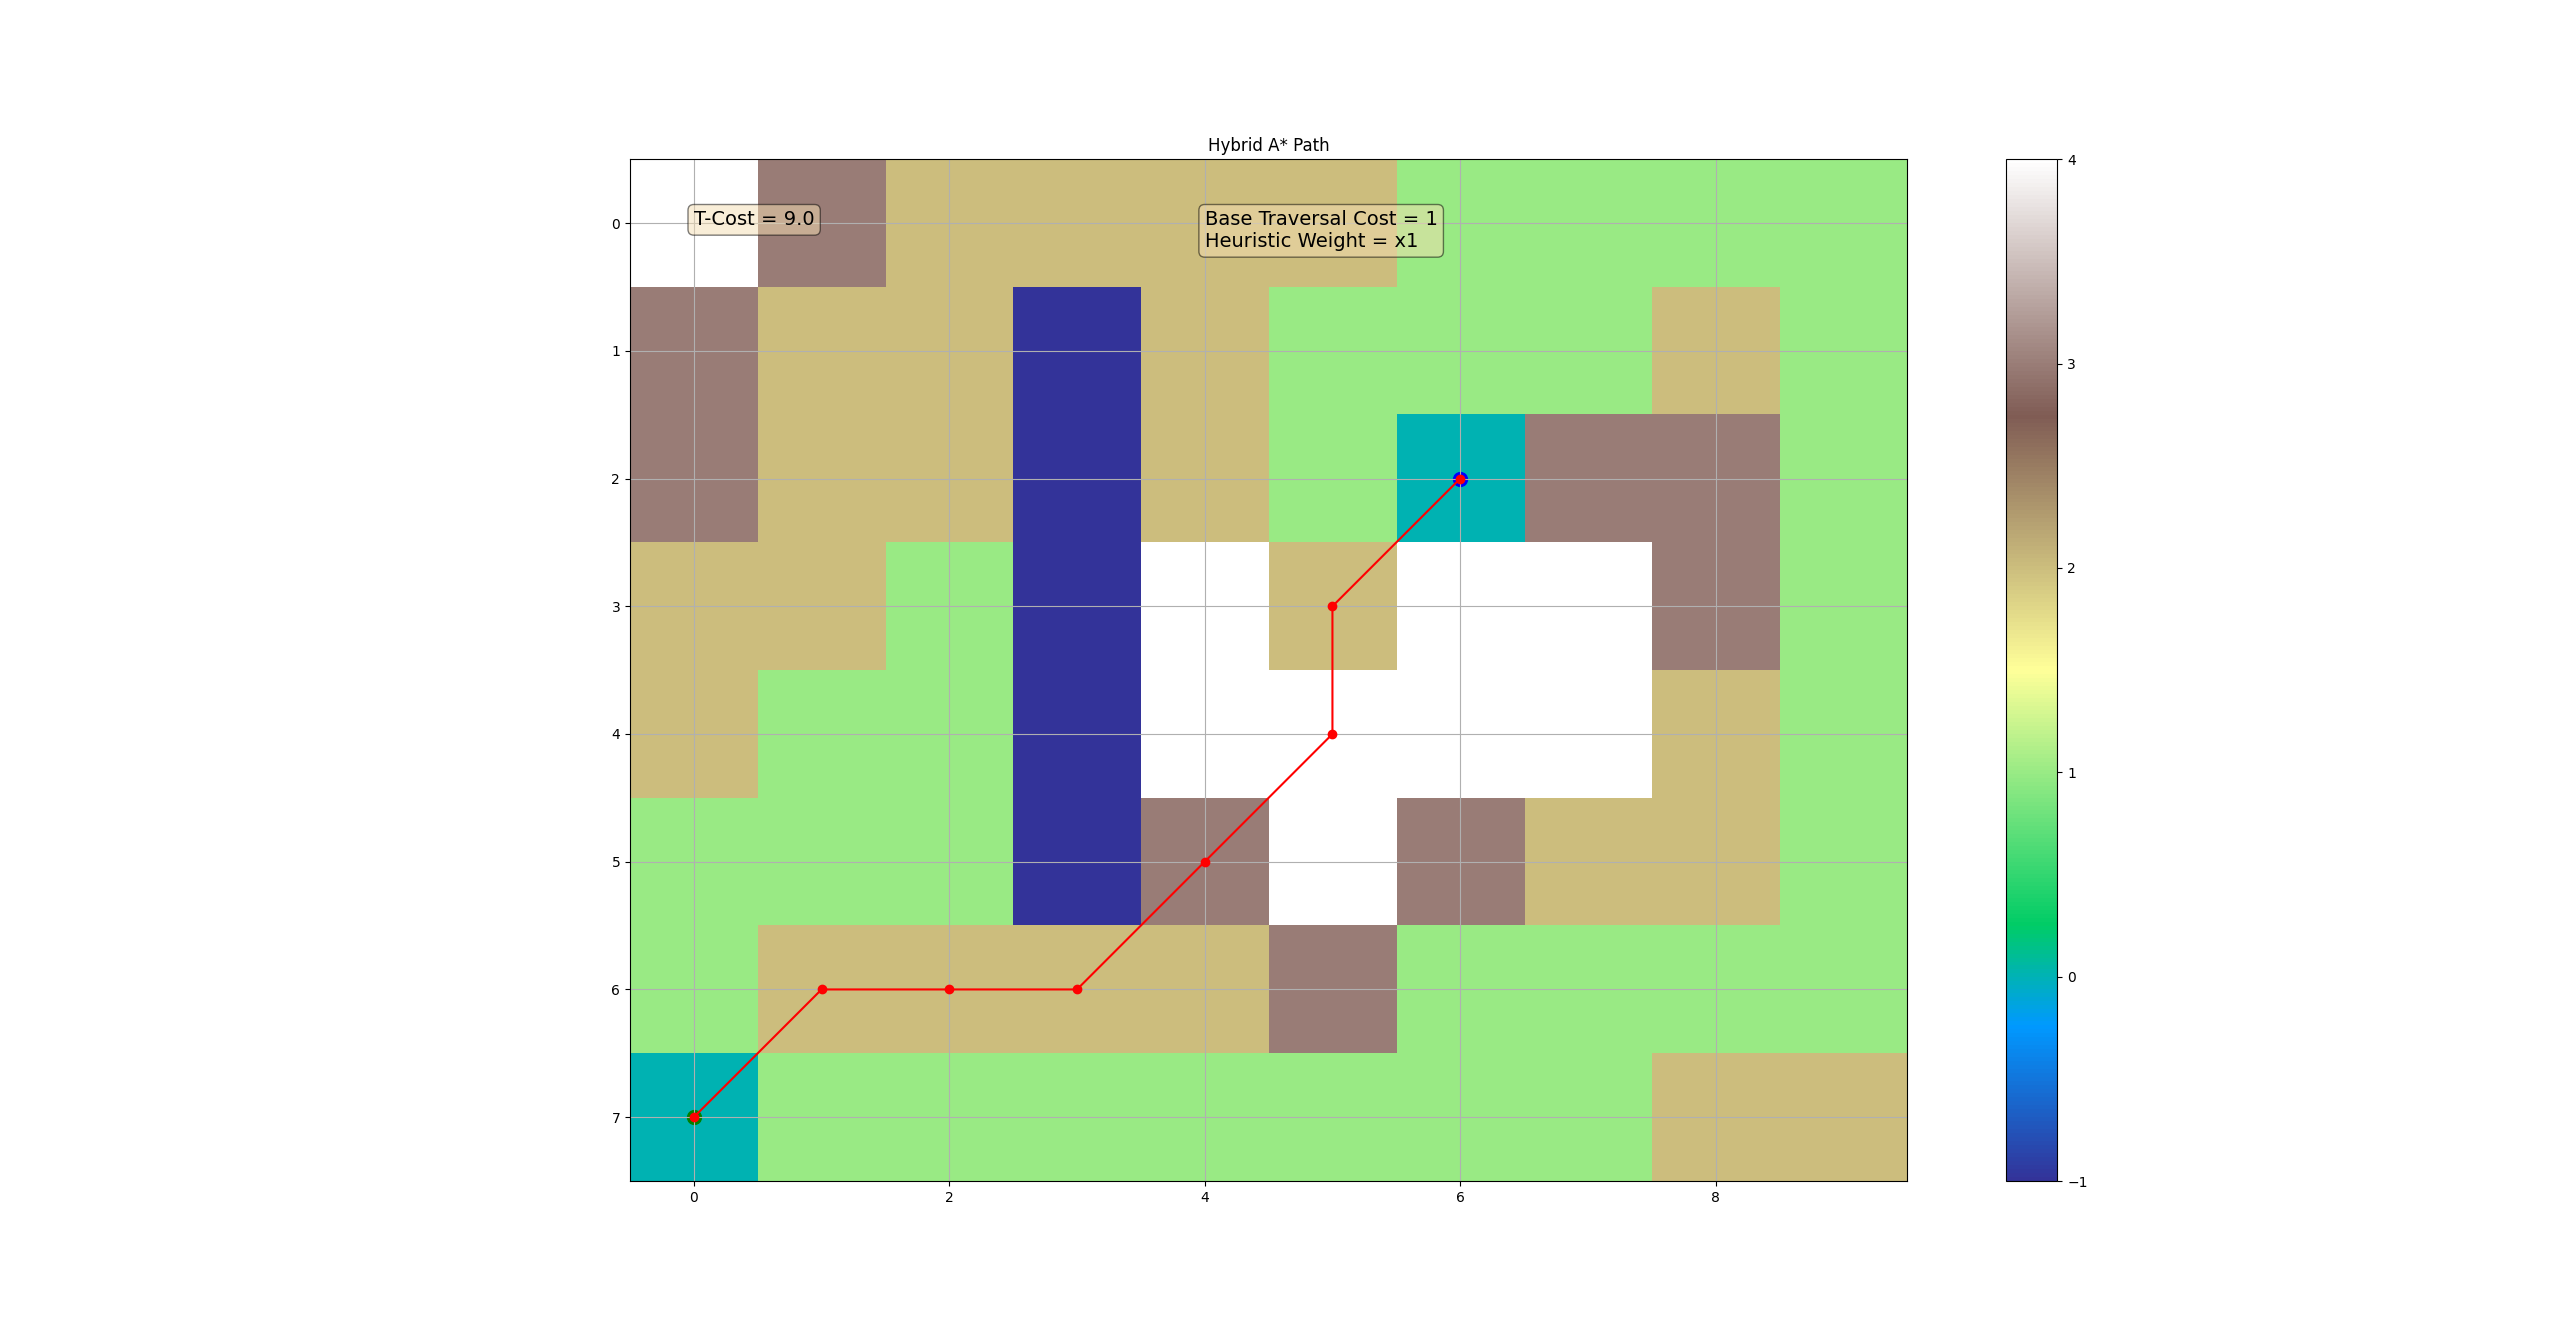
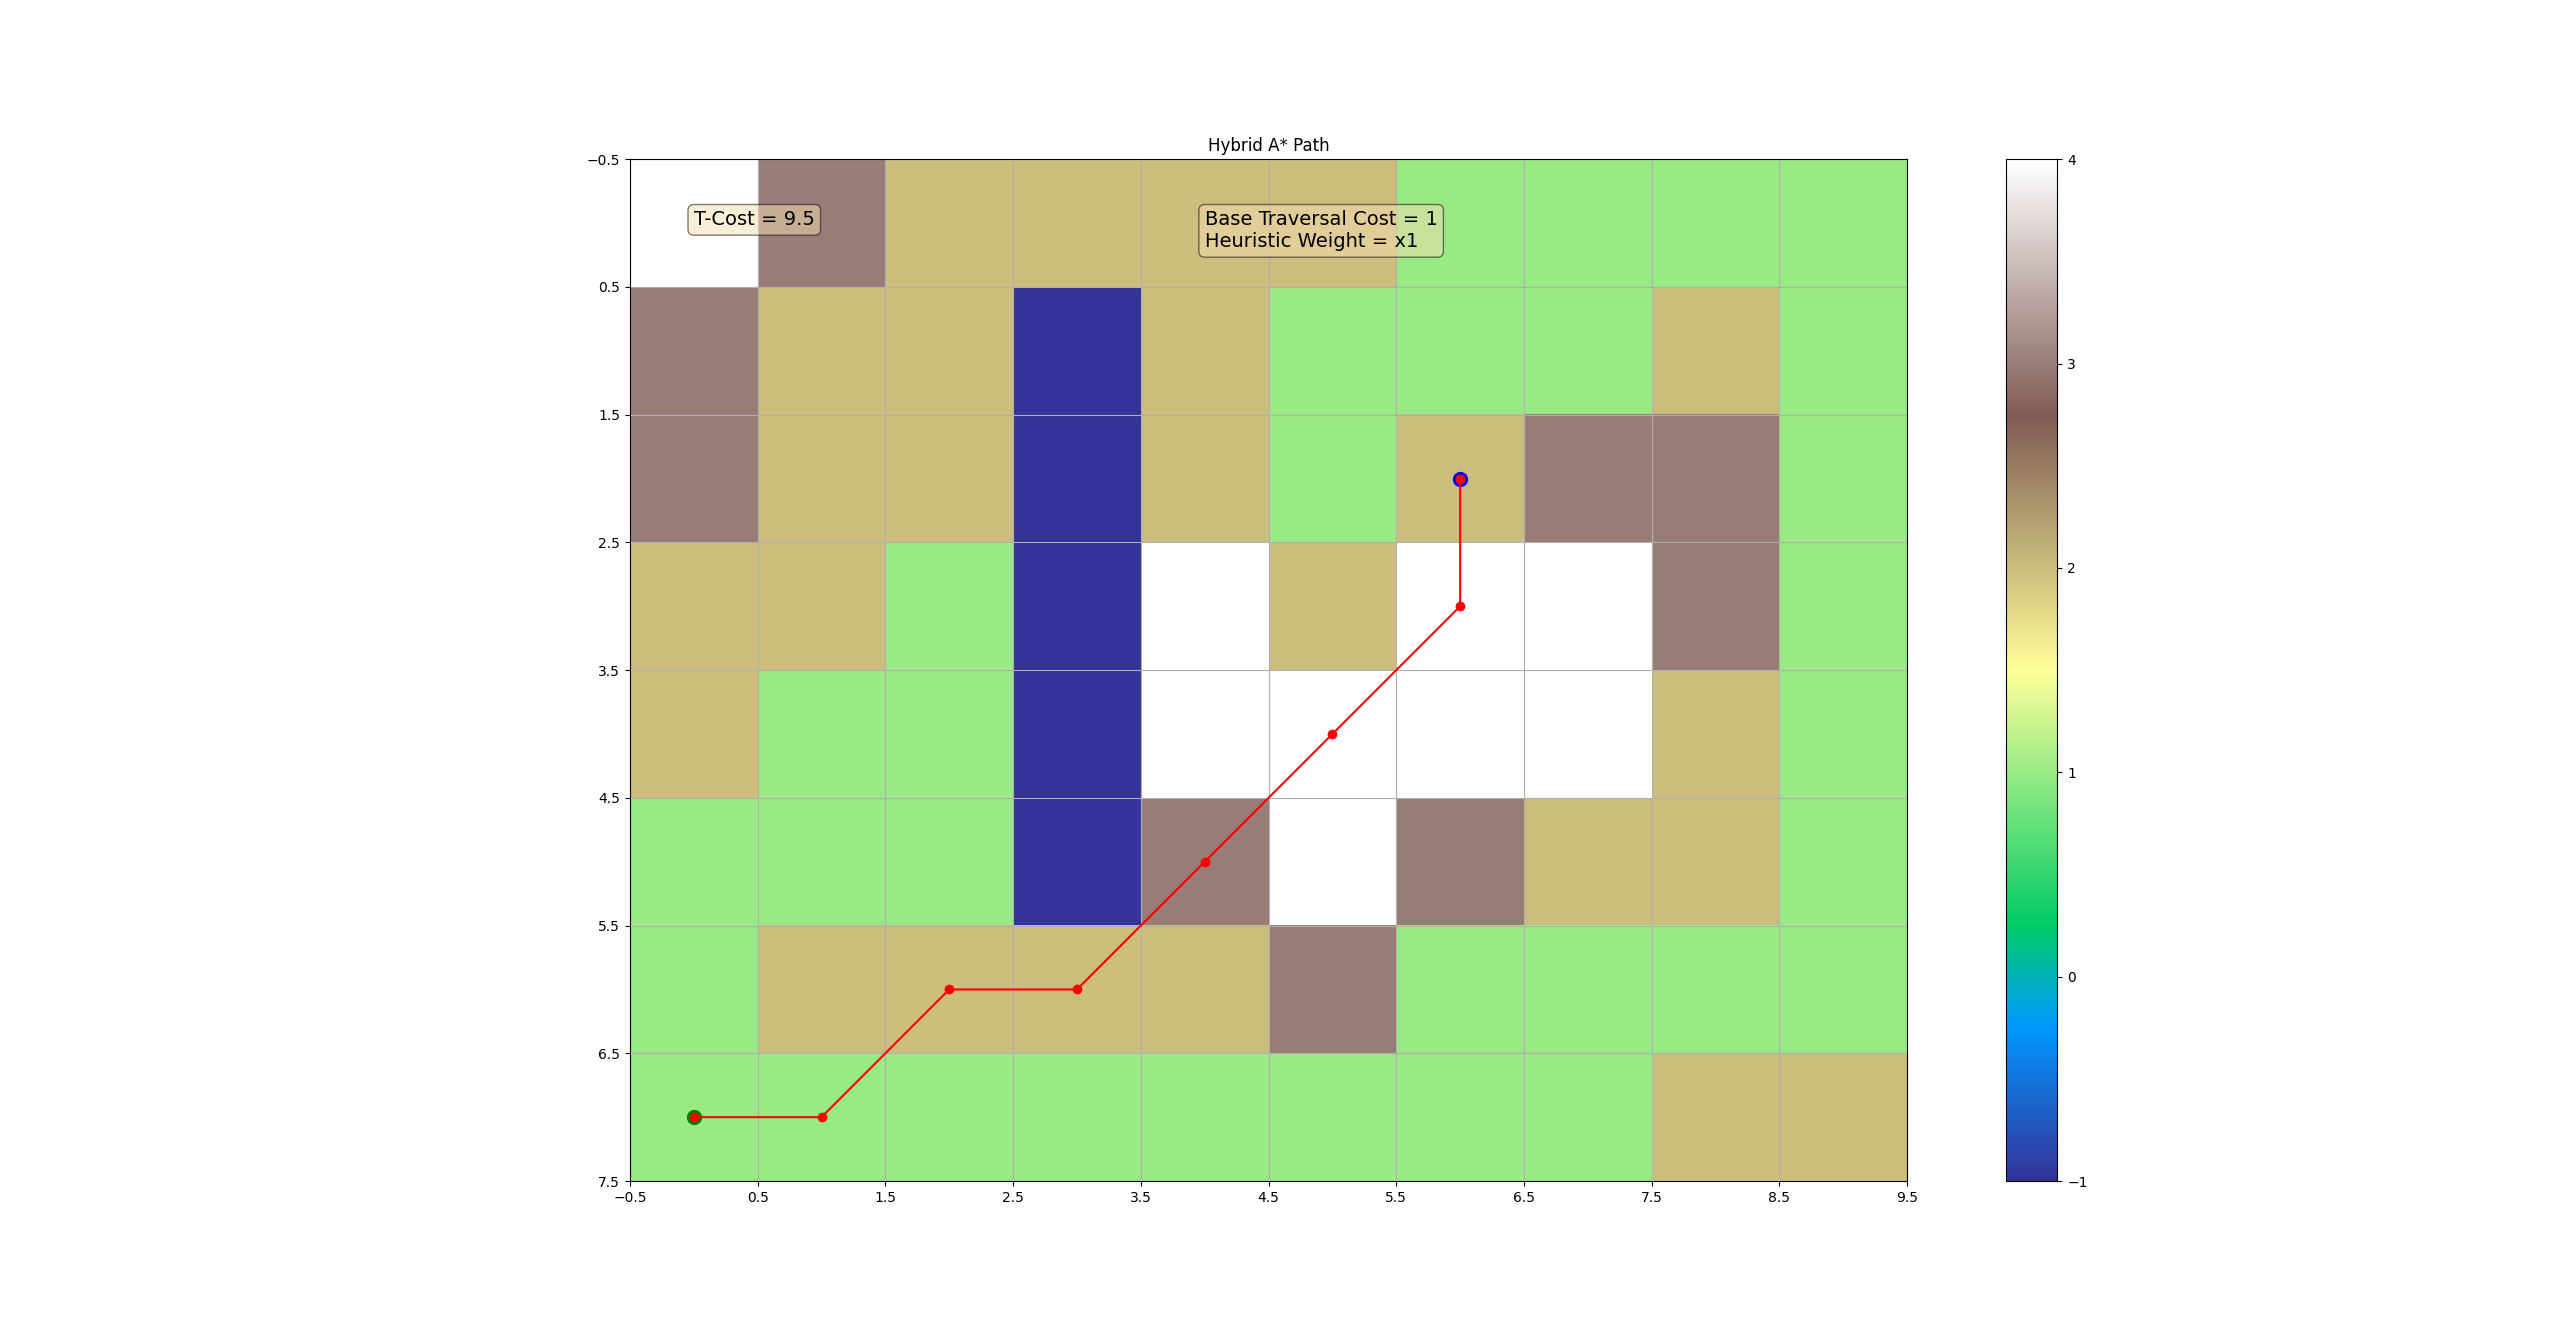
adding some problem 6 graphs

Changed region(s): [[0.2188, 0.7724, 0.3125, 0.896], [0.5312, 0.309, 0.5938, 0.4326], [0.3438, 0.7415, 0.375, 0.7724]]

diff --git a/Problem7/partB.py b/Problem7/partB.py
@@ -4,15 +4,17 @@ import numpy as np
 import matplotlib.pyplot as plt
 import time
 
-BASE_TRAVERSAL_COST = 20
+BASE_TRAVERSAL_COST = 0.5
+UPHILL_COST = 5
+DOWNHILL_GAIN = 1
 HEURISTIC_WEIGHT = 1
 TERRAIN_WEIGHT = 1
 
 START_COORDS = (0, 7)
 END_COORDS = (6, 2)
 
-STARTING_ALT = 0
-ENDING_ALT = 0
+STARTING_ALT = 1
+ENDING_ALT = 2
 
 N = (0, 1)
 NE = (1, 1)
@@ -28,7 +30,7 @@ show_animation = False
 sqrt_2 = math.sqrt(2)
 directions_cost_map = {N: 1, NE: sqrt_2, E: 1, SE: sqrt_2, S: 1, SW: sqrt_2, W: 1, NW: sqrt_2}
 
-terrain_map = [
+TERRAIN_MAP = [
     [4, 3, 2, 2, 2, 2, 1, 1, 1, 1],
     [3, 2, 2, -1, 2, 1, 1, 1, 2, 1],
     [3, 2, 2, -1, 2, 1, ENDING_ALT, 3, 3, 1],
@@ -38,6 +40,17 @@ terrain_map = [
     [1, 2, 2, 2, 2, 3, 1, 1, 1, 1],
     [STARTING_ALT, 1, 1, 1, 1, 1, 1, 1, 2, 2],
 ]
+
+# TERRAIN_MAP = [
+#     [1, 1, 2, 2, 2, 2, 1, 1, 1, 2],
+#     [1, 1, -1, -1, -1, -1, 1, 1, 2, 2],
+#     [1, 2, 3, 4, 2, -1, ENDING_ALT, 3, 3, 2],
+#     [1, 2, 4, 2, 2, -1, 4, 4, 3, 2],
+#     [1, 2, 3, 2, 3, -1, 3, 4, 3, 2],
+#     [1, 2, 2, 2, 3, -1, 2, 3, 2, 2],
+#     [1, 1, 1, 2, 3, 3, 2, 2, 2, 2],
+#     [STARTING_ALT, 1, 2, 1, 1, 2, 2, 2, 2, 2],
+# ]
 class Node:
     def __init__(self, x, y, parent):
         self.x = x
@@ -105,7 +118,7 @@ class AStarPlanner:
                     continue
 
                 # Check that this location isn't in lake
-                if terrain_map[child_y][child_x] == -1:
+                if TERRAIN_MAP[child_y][child_x] == -1:
                     print("ending because the element was found to be in the lake")
                     continue
 
@@ -116,15 +129,15 @@ class AStarPlanner:
 
                 child_node = Node(child_x, child_y, current_node)
                 child_node.parent = current_node
+                child_node.cost_t = current_node.cost_t + self.calc_t_cost(current_node, child_node)
                 child_node.cost_g = current_node.cost_g + cost
                 child_node.cost_h = self.calc_h_cost(child_node)
-                child_node.cost_t = self.calc_t_cost(current_node, child_node)
-                child_node.cost_f = child_node.cost_g + (child_node.cost_t * TERRAIN_WEIGHT) + child_node.cost_h
+                child_node.cost_f = (child_node.cost_t * TERRAIN_WEIGHT) + child_node.cost_h
                 # child_node.cost_f = child_node.cost_t + child_node.cost_h
-                # child_node.cost_f = child_node.cost_t 
+                # child_node.cost_f = child_node.cost_t + child_node.cost_g
 
                 for n in open_list:
-                    if child_node == n and child_node.cost_f > n.cost_f:
+                    if child_node == n and child_node.cost_g > n.cost_g:
                         continue
                 
                 heapq.heappush(open_list, child_node)
@@ -133,21 +146,24 @@ class AStarPlanner:
     @staticmethod
     def calc_t_cost(current, child):
         #Uphill
-        if terrain_map[current.y][current.x] < terrain_map[child.y][child.x]:
-            return BASE_TRAVERSAL_COST + 1
-        elif terrain_map[current.y][current.x] > terrain_map[child.y][child.x]:
-            return BASE_TRAVERSAL_COST - 0.5
+        if TERRAIN_MAP[current.y][current.x] < TERRAIN_MAP[child.y][child.x]:
+            return BASE_TRAVERSAL_COST + UPHILL_COST
+        elif TERRAIN_MAP[current.y][current.x] > TERRAIN_MAP[child.y][child.x]:
+            return BASE_TRAVERSAL_COST - DOWNHILL_GAIN
         else:
             return BASE_TRAVERSAL_COST
         
     def calc_h_cost(self, node):
         return HEURISTIC_WEIGHT * math.sqrt((node.x - self.end_node.x)**2 + (node.y - self.end_node.y)**2)
     
+    # def get_path_t_cost(self):
+    #     t_cost = 0
+    #     for node in self.path:
+    #         t_cost += node.cost_t
+    #     return t_cost
+
     def get_path_t_cost(self):
-        t_cost = 0
-        for node in self.path:
-            t_cost += node.cost_t
-        return t_cost
+        return self.path[-1].cost_t
         
 
     
@@ -156,9 +172,9 @@ if __name__ == "__main__":
     start_node = Node(START_COORDS[0], START_COORDS[1], None)
     end_node = Node(END_COORDS[0], END_COORDS[1], None)
 
-    planner = AStarPlanner(start_node=start_node, end_node=end_node, terrain_map=terrain_map)
+    planner = AStarPlanner(start_node=start_node, end_node=end_node, terrain_map=TERRAIN_MAP)
     fig, ax = plt.subplots()
-    plt.imshow(np.array(terrain_map), cmap='terrain')
+    plt.imshow(np.array(TERRAIN_MAP), cmap='terrain')
     plt.colorbar()
 
     ax.grid(True)
@@ -182,6 +198,10 @@ if __name__ == "__main__":
         verticalalignment='top', bbox=dict(boxstyle='round', facecolor='wheat', alpha=0.5))
     ax.text(0.45, 0.95, f"Base Traversal Cost = {BASE_TRAVERSAL_COST}\nHeuristic Weight = x{HEURISTIC_WEIGHT}", transform=ax.transAxes, fontsize=14,
         verticalalignment='top', bbox=dict(boxstyle='round', facecolor='wheat', alpha=0.5))
+    ticks_x = np.arange(-0.5, len(TERRAIN_MAP[0]), 1)
+    ticks_y = np.arange(-0.5, len(TERRAIN_MAP), 1)
+    ax.set_xticks(ticks_x)
+    ax.set_yticks(ticks_y)
     plt.show()
 
     for p in path:

diff --git a/Problem7/partB_astar.py b/Problem7/partB_astar.py
@@ -5,15 +5,17 @@ import matplotlib.pyplot as plt
 import time
 from queue import PriorityQueue
 
-BASE_TRAVERSAL_COST = 2
+BASE_TRAVERSAL_COST = 1
+UPHILL_COST = 3
+DOWNHILL_GAIN = 1
 HEURISTIC_WEIGHT = 1
-TERRAIN_WEIGHT = 2
+TERRAIN_WEIGHT = 1
 
 START_COORDS = (0, 7)
 END_COORDS = (6, 2)
 
-STARTING_ALT = 0
-ENDING_ALT = 0
+STARTING_ALT = 1
+ENDING_ALT = 2
 
 N = (0, 1)
 NE = (1, 1)
@@ -41,6 +43,17 @@ TERRAIN_MAP = [
     [STARTING_ALT, 1, 1, 1, 1, 1, 1, 1, 2, 2],
 ]
 
+# TERRAIN_MAP = [
+#     [2, 2, 2, 2, 2, 2, 1, 1, 1, 2],
+#     [1, 2, 3, 3, 2, -1, 1, 1, 2, 2],
+#     [1, 2, 3, 2, 1, -1, ENDING_ALT, 3, 3, 2],
+#     [1, 2, 4, 2, 1, -1, 4, 4, 3, 1],
+#     [1, 2, 3, 2, 1, -1, 4, 4, 2, 2],
+#     [1, 2, 1, 2, 1, -1, -1, -1,-1, 1],
+#     [1, 1, 2, 2, 2, 3, 1, 1, 1, 1],
+#     [STARTING_ALT, 1, 1, 1, 1, 2, 2, 2, 2, 2],
+# ]
+
 class Node:
     def __init__(self, x, y, parent):
         self.x = x
@@ -67,11 +80,11 @@ class AStarPlanner:
 
     def find_path(self):
         open_list = PriorityQueue(500)
-        open_list.put(self.start_node)
+        open_list.put((0, self.start_node))
         closeList = set()
 
         while open_list:
-            current_node = open_list.get()
+            current_node = open_list.get()[1]
             closeList.add((current_node.x, current_node.y))
 
             if show_animation:  # pragma: no cover
@@ -122,9 +135,9 @@ class AStarPlanner:
                 child_node.cost_g = current_node.cost_g + cost
                 child_node.cost_h = self.calc_h_cost(child_node)
                 child_node.cost_t = self.calc_t_cost(current_node, child_node)
-                child_node.cost_f = child_node.cost_g + child_node.cost_h
+                child_node.cost_f =  child_node.cost_g + child_node.cost_h
                 
-                open_list.put(child_node)
+                open_list.put((child_node.cost_f, child_node))
 
                 #replace 
         return None
@@ -143,9 +156,9 @@ class AStarPlanner:
     def calc_t_cost(current, child):
         #Uphill
         if TERRAIN_MAP[current.y][current.x] < TERRAIN_MAP[child.y][child.x]:
-            return BASE_TRAVERSAL_COST + 1
+            return BASE_TRAVERSAL_COST + UPHILL_COST
         elif TERRAIN_MAP[current.y][current.x] > TERRAIN_MAP[child.y][child.x]:
-            return BASE_TRAVERSAL_COST - 0.5
+            return BASE_TRAVERSAL_COST - DOWNHILL_GAIN
         else:
             return BASE_TRAVERSAL_COST
 
@@ -182,6 +195,10 @@ if __name__ == "__main__":
         verticalalignment='top', bbox=dict(boxstyle='round', facecolor='wheat', alpha=0.5))
     ax.text(0.45, 0.95, f"Base Traversal Cost = {BASE_TRAVERSAL_COST}\nHeuristic Weight = x{HEURISTIC_WEIGHT}", transform=ax.transAxes, fontsize=14,
         verticalalignment='top', bbox=dict(boxstyle='round', facecolor='wheat', alpha=0.5))
+    ticks_x = np.arange(-0.5, len(TERRAIN_MAP[0]), 1)
+    ticks_y = np.arange(-0.5, len(TERRAIN_MAP), 1)
+    ax.set_xticks(ticks_x)
+    ax.set_yticks(ticks_y)
 
     plt.show()
 
